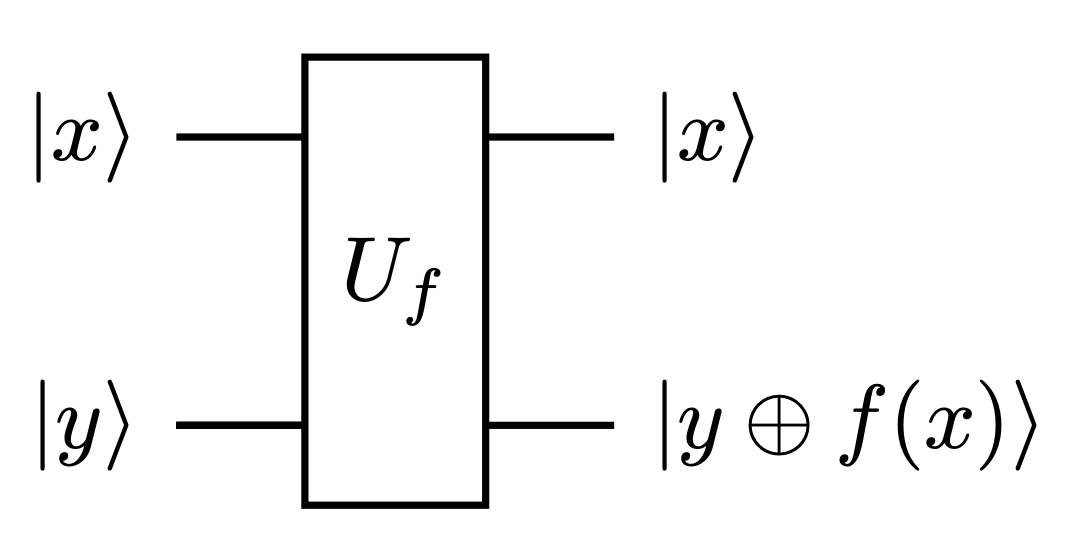
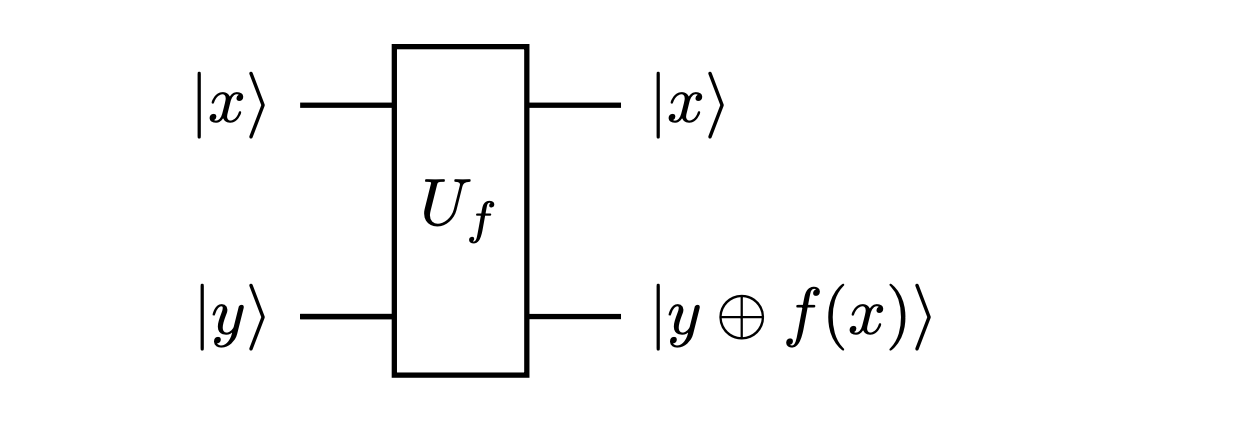
Deutsch-Jozsa
illustration improved and latex corrected

diff --git a/Fourier.md b/Fourier.md
@@ -1,0 +1,132 @@
+# Fourier Transform
+
+
+## Dirac Delta Function
+
+The Dirac Delta Function, denoted as $\delta(x)$, is a mathematical function having the following properties:
+
+1. **Zero Everywhere Except at Zero:**
+   The Dirac Delta Function $\delta(x)$ is defined as:
+   $$
+   \delta(x) = \begin{cases} 
+   \infty & \text{for } x = 0 \\
+   0 & \text{for } x \neq 0
+   \end{cases}
+   $$
+   with the additional property that its integral over the entire real line is 1.
+
+2. **Integral over the Real Line:**
+   The integral of $\delta(x)$ over the real line is 1:
+   $$
+   \int_{-\infty}^{\infty} \delta(x) \, dx = 1
+   $$
+
+> **Sifting Property:**
+>
+>   For a function $f : \mathbb{R} \to \mathbb{R}$ that is continuous (at least on a):
+>   $$f(a) = \int_{-\infty}^{\infty} f(x) \delta(x - a) \, dx$$
+>
+>This property allows the function to 'pick out' the value of another function at a particular point through integration.
+>
+> **Proof :**
+>
+>Because $\delta = 0$ everywhere except on $a$:
+>
+>$$
+>\begin{align*}
+>\int_{-\infty}^{\infty} f(x) \delta(x - a) \, dx &= \int_{-\infty}^{\infty} f(a) \delta(x - a) \, dx\\
+>&= f(a) \int_{-\infty}^{\infty} \delta(x - a) \, dx\\
+>&= f(a)
+>\end{align*}
+>$$
+
+
+
+Several mathematical functions exhibit properties similar to the Dirac Delta function. These include:
+
+1. **Normal Distribution Function in the Limit:**
+   A normalized Gaussian function becomes similar to the Dirac Delta function as its variance approaches zero. This is represented as:
+   $$\lim_{\sigma \to 0} \frac{1}{\sigma\sqrt{2\pi}} e^{-\frac{x^2}{2\sigma^2}} = \delta(x).$$
+
+2. **Sinc Function:**
+   The sinc function, particularly when normalized, also approximates the Dirac Delta function as its width goes to infinity:
+   $$\lim_{a \to \infty} \frac{\sin(ax)}{\pi x} = \delta(x).$$
+
+3. **Rectangular Pulse Function:**
+   A rectangular pulse function (or boxcar function) narrows down to the Dirac Delta function as its width becomes infinitesimally small:
+   $$\lim_{a \to 0} \frac{1}{a} \text{rect}\left(\frac{x}{a}\right) = \delta(x),$$
+   where $\text{rect}(x)$ is the rectangular function, which is 1 for $|x| \leq \frac{1}{2}$ and 0 otherwise.
+
+These functions serve as practical approximations of the Dirac Delta function in various fields, particularly in signal processing and physics.
+
+
+## Fourier Transform
+
+The **Fourier Transform** of a function $f(t)$ is given by the equation:
+$$
+F(\omega) = \int_{-\infty}^{\infty} f(t) e^{-i\omega t} dt
+$$
+This equation transforms $f(t)$, a function of time, into $F(\omega)$, a function of frequency. It essentially multiplies $f(t)$ by a complex exponential that oscillates at frequency $\omega$, and integrates over all time. This process decomposes the function into its frequency components.
+
+The **Inverse Fourier Transform** allows us to reconstruct $f(t)$ from $F(\omega)$ and is given by:
+$$
+f(t) = \frac{1}{2\pi} \int_{-\infty}^{\infty} F(\omega) e^{i\omega t} d\omega
+$$
+This equation does the reverse of the Fourier Transform - it takes the frequency-domain function $F(\omega)$ and reconstructs the original time-domain function $f(t)$ by integrating over all frequencies.
+
+## Proof of Consistency between Fourier Transform and its Inverse
+
+**Fourier Transform** of a function $f(t)$ is given by:
+$$
+    F(\omega) = \int_{-\infty}^{\infty} f(t) e^{-i\omega t} dt
+$$
+
+**Inverse Fourier Transform** is defined as:
+$$
+    f(t) = \frac{1}{2\pi} \int_{-\infty}^{\infty} F(\omega) e^{i\omega t} d\omega
+$$
+
+Applying the Inverse Fourier Transform to $F(\omega)$, we get:
+$$
+\begin{align*}
+    f(t) &= \frac{1}{2\pi} \int_{-\infty}^{\infty} F(\omega) e^{i\omega t} d\omega \\
+    &= \frac{1}{2\pi} \int_{-\infty}^{\infty} \left( \int_{-\infty}^{\infty} f(\tau) e^{-i\omega \tau} d\tau \right) e^{i\omega t} d\omega \\
+    &= \frac{1}{2\pi} \int_{-\infty}^{\infty} \int_{-\infty}^{\infty} f(\tau) e^{-i\omega \tau} e^{i\omega t} d\tau d\omega \\
+    &=  \int_{-\infty}^{\infty} f(\tau) \left( \frac{1}{2\pi} \int_{-\infty}^{\infty} e^{i\omega (t - \tau)} d\omega \right) d\tau
+\end{align*}
+$$
+
+
+Using the property of the Dirac delta function $\delta(t - \tau)$:
+$$
+    \delta(t - \tau) = \frac{1}{2\pi} \int_{-\infty}^{\infty} e^{i\omega (t - \tau)} d\omega
+$$
+
+Substituting this back into the reconstructed function:
+$$
+    f(t) = \int_{-\infty}^{\infty} f(\tau) \delta(t - \tau) d\tau \\
+    = f(t)
+$$
+
+This proves that applying the Fourier Transform followed by the Inverse Fourier Transform to a function $f(t)$ returns the original function $f(t)$. The process is consistent and validates the mathematical formulation of both the Fourier Transform and its inverse.
+
+
+## $\delta(t-\tau)\frac{1}{2\pi} \int_{-\infty}^{\infty} e^{i(x-\tau)} \, dx$
+
+Let shows that $\frac{1}{2\pi} \int_{-\infty}^{\infty} e^{i(x-\tau)} \, dx$ can be considered equivalent to $\delta(t-\tau)$:
+
+1. **When $t = \tau$:**
+   $$\frac{1}{2\pi} \int_{-\infty}^{\infty} 1 \, dt = \infty$$
+
+2. **When $ t \neq \tau $:**
+   Starting with the integral:
+   $$
+   \begin{align*}
+       \frac{1}{2\pi} \int_{-\infty}^{\infty} e^{i(t - \tau)} dt &= \frac{1}{2\pi} \left( \underbrace{\int_{-\infty}^{\infty} \cos(t - \tau) dt}_{0} + i \underbrace{ \int_{-\infty}^{\infty} \sin(t - \tau) dt}_{0} \right) \\
+       &= 0
+   \end{align*}
+   $$
+   Since the integral of $\cos(x - \tau)$ over an infinite interval is zero for $ t \neq \tau $.
+
+
+The integral $\frac{1}{2\pi} \int_{-\infty}^{\infty} e^{i(x-\tau)} \, dx$ can also be viewed as the Fourier transform of a constant function. Since the Fourier transform of a constant function (except at the origin) is zero, this integral also evaluates to zero. This perspective simplifies the understanding of the integral's behavior and its connection to the Fourier transform

diff --git a/README.md b/README.md
@@ -690,6 +690,7 @@ U_f \ket{x}\ket{-} &= U_f \ket{x} \left( \frac{1}{\sqrt{2}} \ket{0} - \frac{1}{\
 &= \frac{1}{\sqrt{2}} \ket{x} \ket{f(x)} - \frac{1}{\sqrt{2}} \ket{x}\ket{\overline{f(x)}}
 \end{align*}
 $$
+
 where $\overline{f(x)}$ represents the logical negation of $f(x)$.
 
 Subsequently, the expression for $U_f \ket{x}\ket{-}$ unfolds as:
@@ -703,9 +704,11 @@ $$
 
 Therefore, this leads us to reformulate:
 
-$$
-U_f \ket{x}\ket{-} = (-1)^{f(x)}\ket{x}\ket{-}
-$$
+> **The Oracle Property**
+>
+>$$
+>U_f \ket{x}\ket{-} = (-1)^{f(x)}\ket{x}\ket{-}
+>$$
 
 This reformulation is an example of what is known as a phase oracle. It operates by encoding the information of a function output $f(x)$ into the phase of a quantum state, rather than into the state's amplitude. This encoding is done in a way that the function's output is represented as a phase shift in the quantum state.
 
@@ -877,10 +880,10 @@ $$
 
 
 
+
 >$$
 >\ket{+}^{\otimes n} = \frac{1}{\sqrt{2^n}} \sum_{x \in \{0,1\}^n} \ket{x}
-
-
+>$$
 > **Proof**
 >
 >1. **Base Case n=1**:
@@ -929,6 +932,8 @@ $$
 \ket{\psi_2} = \frac{1}{\sqrt{2^n}} \sum_{x \in \{0,1\}^n} \ket{x} \ket{-}
 $$
 
+As you can see, we have created a state that is a superposition of all the possible states. That's with this method that Deutsch-Jozsa Algorithm is able to find wether a function is balanced and constant with only $1$ iteration instead of $2^{n-1}+1$ 
+
 ### 3. **Apply Oracle $U_f$**
 
 Then, we apply the oracle $U_f$. This operation maps $\ket{x}\ket{y}$ to $\ket{x}\ket{y \oplus f(x)}$, where $\oplus$ denotes addition modulo 2. For our specific case, with the second register initially in state $\ket{-}$, the transformation is:
@@ -940,6 +945,9 @@ $$
 &= \frac{1}{\sqrt{2^{n}}} \sum_{x \in \{0,1\}^n} (-1)^{f(x)}\ket{x}\ket{-}
 \end{align*}
 $$
+
+### 4. Applying the Hadamard Transform
+
 
 After this step, we apply the Hadamard transform to the first $n$ qubits:
 
@@ -992,9 +1000,6 @@ H^{\otimes 3} \ket{101} &= \left( H\ket{1} \otimes H\ket{0} \otimes H\ket{1} \ri
 \end{align*}
 $$
 
-
-### 4. Applying the Hadamard Transform
-
 After applying the Hadamard transform to the first $n$ qubits in the state $\ket{\psi_3}$, we get:
 
 $$
@@ -1019,3 +1024,45 @@ $$
 ### 5. Measurement and Conclusion
 
 Finally, we measure the first $n$ qubits. If $f(x)$ is constant, all terms in the sum for $\ket{\psi_4}$ add constructively for $z = 0^n$ and destructively for all other $z$, leading to the measurement of $0^n$. If $f(x)$ is balanced, there is complete destructive interference for $z = 0^n$, making it impossible to measure $0^n$. Thus, by observing whether or not we get $0^n$, we can determine if $f$ is constant or balanced, completing the Deutsch-Jozsa algorithm.
+
+# Bernstein-Vazirani Algorithm
+
+
+Let $f_s: \{0,1\}^n \to {0,1}$ a function with $n$ parameters $(s_1, \dots, s_n) \in \{0,1\}^n $ that yield the dot product of $x$ with $s$ that is:
+
+
+$$
+f(x) = s \cdot x
+$$
+
+$$
+\forall x \in \{0,1\}^n \quad f_s(x) = \sum_i s_i x_i = 
+\begin{bmatrix}
+s_1 \cdots s_n 
+\end{bmatrix} 
+\begin{bmatrix}
+x_1 \\ 
+\vdots \\ 
+x_n 
+\end{bmatrix} 
+$$
+
+
+The parameters $(s_1, \dots, s_n)$ are all unknown and we try to find them. With a classic quantumer, the only way is to compute the function $f_s$ multiple time this way:
+
+$$
+s_1 = f_s(1,0, \dots,0) 
+$$
+$$
+s_2 = f_s(0,1,0, \dots) 
+$$
+$$
+\vdots
+$$
+$$
+s_n = f_s(0,\dots,0,1) 
+$$
+
+Therefore, with a classic computer we need $n$ iterations
+
+With a very simple modifiction  of Deutsch-Jozsa algorithm, the Bernstein-Vazirani algorithm is able to output all parameters of s in one single iteration !
